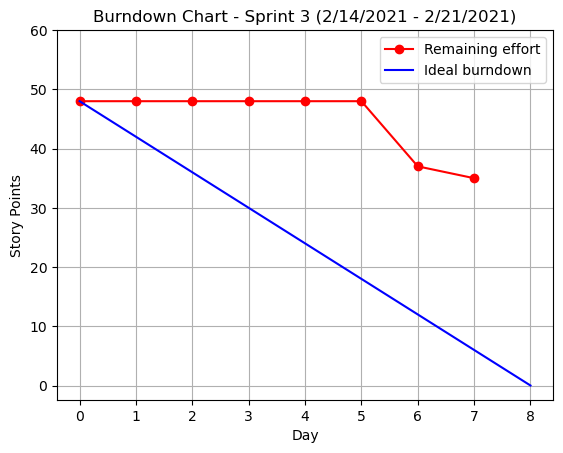
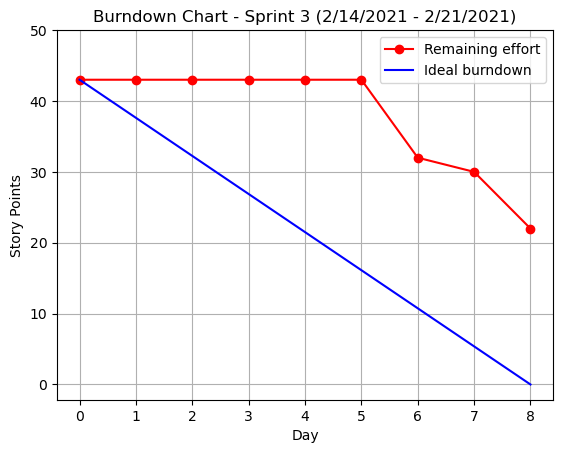
charts: Update to reflect Trello board

diff --git a/charts/main.py b/charts/main.py
@@ -31,8 +31,8 @@ def main():
     create_burndown_chart(sprint2)
 
     sprint3_name = "Sprint 3 (2/14/2021 - 2/21/2021)"
-    sprint3_completion = [0, 0, 0, 0, 0, 11, 2]
-    sprint3 = Sprint(sprint3_name, days=8, commitment=48, completed=sprint3_completion)
+    sprint3_completion = [0, 0, 0, 0, 0, 11, 2, 8]
+    sprint3 = Sprint(sprint3_name, days=8, commitment=43, completed=sprint3_completion)
     create_burndown_chart(sprint3)
 
     sprints = [sprint1, sprint2, sprint3]
